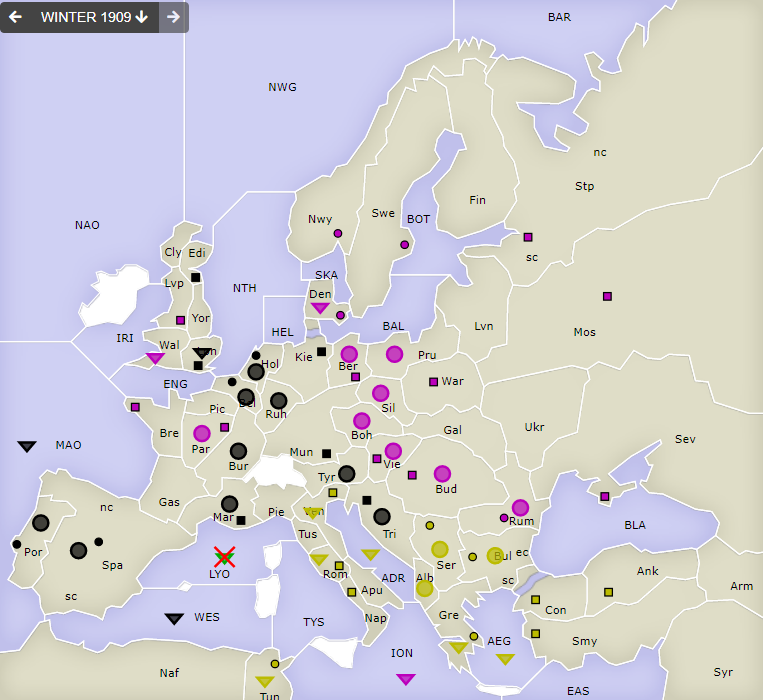
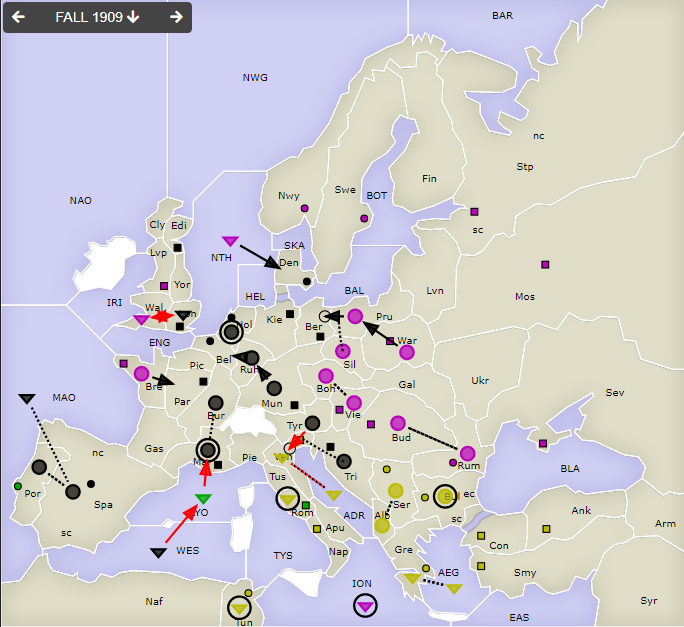
09h corr

diff --git a/docs/dippy-atari/dippy-a1909h.md b/docs/dippy-atari/dippy-a1909h.md
@@ -26,9 +26,6 @@ Category: Spiel
 |         |         |        | A Ruh-Bel        |                  | <u>F Wal-Lon</u> |                   |
 |         |         |        | <u>A Tyr-Ven</u> |                  |                  |                   |
 |         |         |        | A Tri S "        |                  |                  |                   |
-|         |         |        |                  |                  |                  |                   |
-|         |         |        |                  |                  |                  |                   |
-|         |         |        |                  |                  |                  |                   |
 {: .orders}
 
 Anmerkungen und Gedanken: 
@@ -40,14 +37,14 @@ Anmerkungen und Gedanken:
 
 ## Zentren
 
-| Austria | England | France | Germany      | Italy    | Russia      | Turkey      |
-|---------|---------|--------|--------------|----------|-------------|-------------|
-| /       | /       | /      | Lon Bel Tri  |          | Bre Vie+Ber |             |
-|         |         |        | -Ber Mun Kie | -Rom-Por | Mos War Stp | Con Smy Ank |
-|         |         |        | -Den Hol Mar |          | Sev Rum Nwy | Bul Gre Ser |
-|         |         |        | Edi-Par Spa  |          | Swe Bud Lvp | Nap Ven Tun |
-|         |         |        | +Por         |          | +Den+Par    | +Rom        |
-|         |         |        | /10          | /0       | /14         | /10         |
+| Austria | England | France | Germany     | Italy    | Russia      | Turkey      |
+|---------|---------|--------|-------------|----------|-------------|-------------|
+| /       | /       | /      | Lon Bel Tri |          | Bre Vie+Ber |             |
+|         |         |        | Mun-Ber Kie | -Rom-Por | Mos War Stp | Con Smy Ank |
+|         |         |        | Hol-Den Mar |          | Sev Rum Nwy | Bul Gre Ser |
+|         |         |        | Edi-Par Spa |          | Swe Bud Lvp | Nap Ven Tun |
+|         |         |        | +Por        |          | +Den+Par    | +Rom        |
+|         |         |        | **/10**     | **/0**   | **/14**     | **/10**     |
 {: .orders}
 
 **Freie Zentren:** 
@@ -58,8 +55,8 @@ Anmerkungen und Gedanken:
 
 | Austria     | England | France | Germany  | Italy  | Russia | Turkey |
 |-------------|---------|--------|----------|--------|--------|--------|
-| /           | /       | /      | -A Por $ | -A LYO | +A War | - $    |
-|             |         |        | -F WES $ |        |        | - $    |
+| /           | /       | /      | -A Por $ | -A LYO | +A War | + $    |
+|             |         |        | -F WES $ |        |        | + $    |
 {: .orders}
 
 ![Neue Situation](images/a1909h-2.png)
